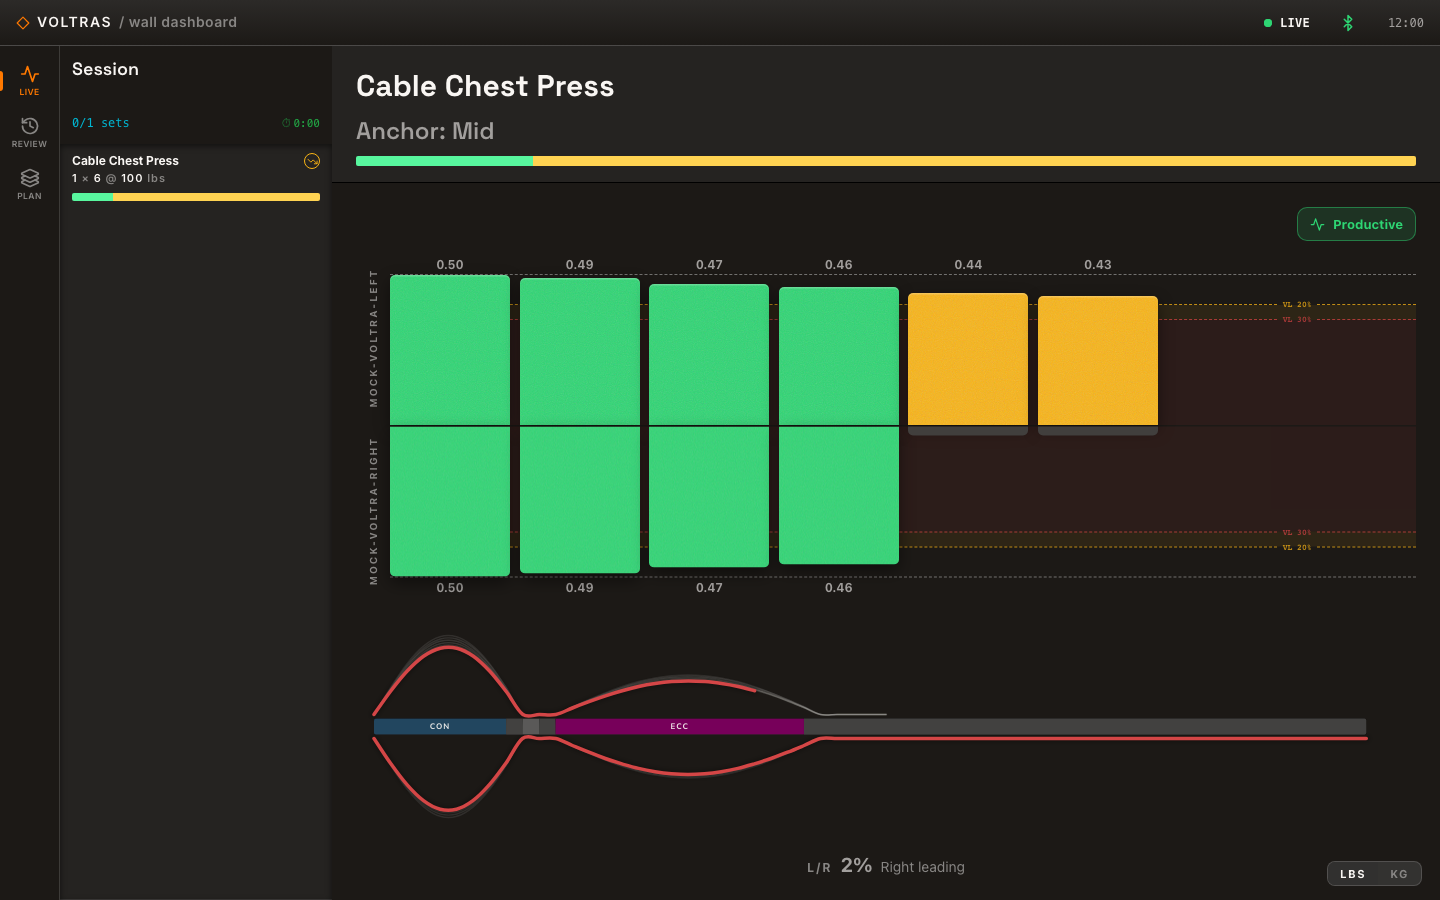
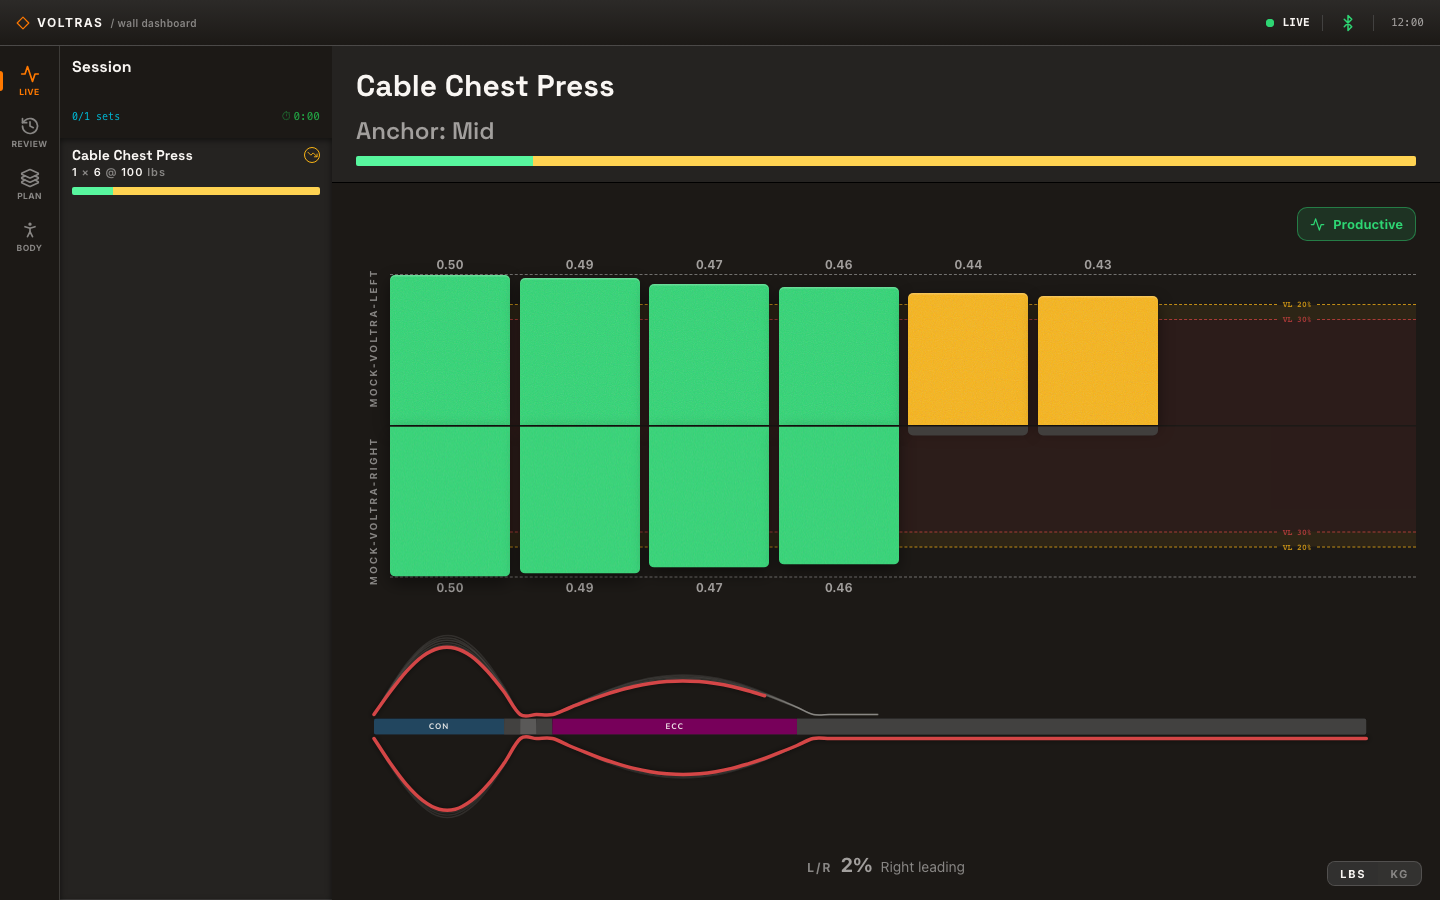
Pick up titan 0.18.1 so the wall's type overrides apply (VW-420) (#445)
titan's published build dropped every className override a component
passed to its text, so the goal hero drew 16px regular instead of 40px
bold, and the top bar, nav labels and dividers were flattened the same
way. Fixed upstream; this takes the fix.

Lockfile edited by hand (version, tarball, integrity, root spec) and
proven with npm ci. Six captures regenerated; live-rest, plan-builder
and session-summary are left alone because their text assertions
already fail on main.

diff --git a/CHANGELOG.md b/CHANGELOG.md
@@ -35,6 +35,15 @@ workflow: this file is the record a reader trusts, so a human writes it.
 An empty `[Unreleased]` is the normal state after a release and never fails. Whether an
 entry is written from the user's point of view is a review question, not a check.
 
+### Fixed
+
+- The wall's type finally matches its designs. The goal hero ("+16 lb beyond goal") drew at
+  16 px regular instead of 40 px bold, and the same fault flattened the bold set facts, the
+  top bar lockup, breadcrumb, idle pill and clock, the nav labels, and the top bar dividers
+  (0 px tall, now 16). Cause: titan's published build dropped every size, weight and leading
+  override a component passed to its text; fixed upstream in `@titan-design/react-ui` 0.18.1
+  and picked up here. Nothing was redesigned, the intended styles now apply (VW-420).
+
 ## [Unreleased]
 
 ### Added
